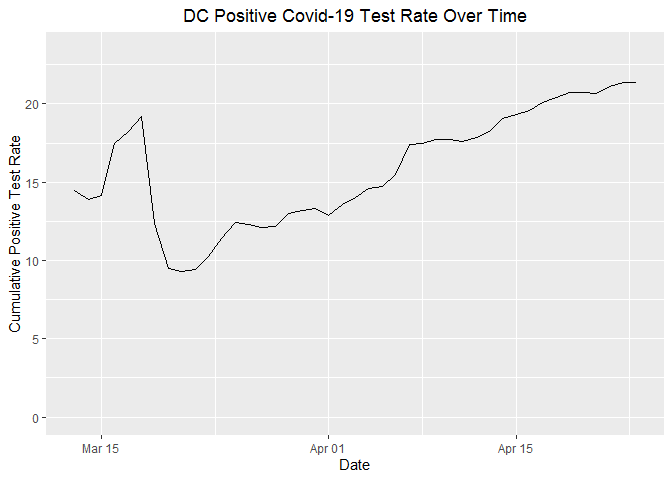
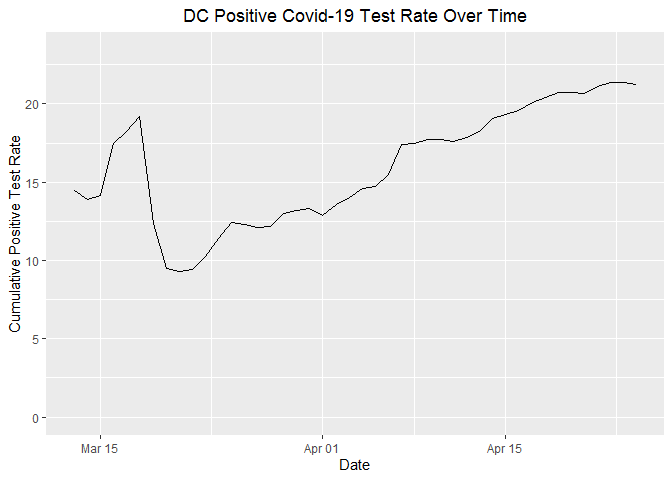
26 April first update

diff --git a/Markdown/Pos_Test_Rate.md b/Markdown/Pos_Test_Rate.md
@@ -1,7 +1,7 @@
 Positive Covid-19 Test Rate Increases Around DC
 ================
 
-2020-04-25 11:52:30
+2020-04-26 12:10:00
 
 The number of Covid-19 tests conducted in the DC area increased
 considerably through the first part of April and has generally plateaued
@@ -19,15 +19,15 @@ it doesn’t show abnormal spikes in late March.
 Despite plateauing or decreasing numbers of tests in the area, the
 cumulative positive test rate has increased over time since the rates
 spiked in mid-March, when fewer Covid-19 tests were being conducted.
-Right now, the cumulate positive rate in DC is 21.3%, the rate in
-Maryland is 19.6%, and the rate in Virginia is 16.2%.
+Right now, the cumulate positive rate in DC is 21.4%, the rate in
+Maryland is 19.9%, and the rate in Virginia is 16.5%.
 
 ![](Pos_Test_Rate_files/figure-gfm/pos_rate_cumulative-1.png)<!-- -->
 
 The recent increases in positive test rates are more pronounced when
 displayed as recent, rather than cumulative, averages. The average
-positive test rate between 2020-04-22 and 2020-04-24 was 27% in DC,
-21.9% in Maryland, and 14.4% in Virginia.  
+positive test rate between 2020-04-23 and 2020-04-25 was 27.4% in DC,
+23.7% in Maryland, and 14.4% in Virginia.  
 \` ![](Pos_Test_Rate_files/figure-gfm/rolling_pos_rate-1.png)<!-- -->
 
 New York state has generally had the highest testing rate of any state,
